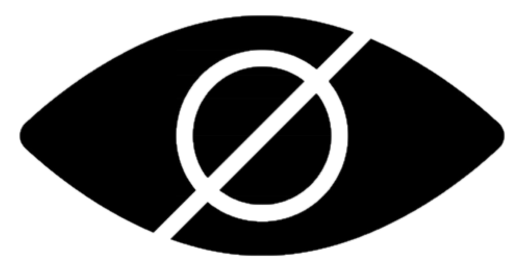
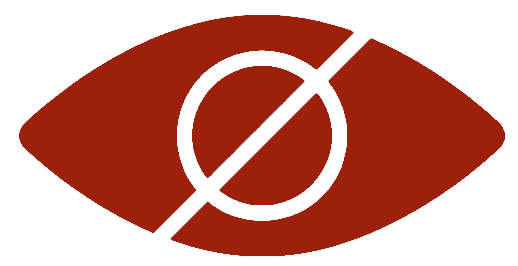
stylings and images added

diff --git a/resources/views/all/index.blade.php b/resources/views/all/index.blade.php
@@ -44,7 +44,7 @@
     </select>
 
 <select id='age_number' name='age_number'>
-  <option> Kies leeftijd</option>
+  <option> Leeftijd</option>
 
 @foreach ($all_ages as $age)
 
@@ -75,9 +75,9 @@ value={{$age['Age']}}>{{$age['Age']}}</option>
   @php 
   if ( is_null($gender_filtered) || 
   ($gender_filtered !=null) && (in_array($gender['Gender'], $gender_filtered))) { echo 'checked'; } 
-  @endphp   
-    
-  value= {{  $gender['Gender'] }} name= "gender[]" type="checkbox"/> 
+  @endphp  
+  
+    value= {{  $gender['Gender'] }} name= "gender[]" type="checkbox"/> 
   {{ \App\Models\Passenger::$gender_label[$gender["Gender"]] }}
 </div>
 
@@ -100,7 +100,7 @@ value={{$age['Age']}}>{{$age['Age']}}</option>
   if ( is_null($embarked_filtered) || 
   ($embarked_filtered !=null) && (in_array($bplace['Embarked'], $embarked_filtered))) { echo 'checked'; } 
   @endphp  
-   value= "{{ $bplace['Embarked'] === '' ? "Onbekend" : $bplace['Embarked'] }}" name="boarded[]" type="checkbox"/> 
+      value= "{{ $bplace['Embarked'] === '' ? "Onbekend" : $bplace['Embarked'] }}" name="boarded[]" type="checkbox"/> 
   {{ $bplace['Embarked'] === '' ? "Onbekend" : $bplace['Embarked'] }}
 </div>
 
@@ -121,8 +121,8 @@ value={{$age['Age']}}>{{$age['Age']}}</option>
   @php 
   if ( is_null($class_filtered) || 
   ($class_filtered !=null) && (in_array($class['Class'], $class_filtered))) { echo 'checked'; } 
-   @endphp 
-  value= "{{  $class['Class'] }}" name="class[]" name= {{ $class }} type="checkbox"/> {{ $class['Class'] }}
+   @endphp   
+     value= "{{  $class['Class'] }}" name="class[]" name= {{ $class }} type="checkbox"/> {{ $class['Class'] }}
 </div>
 
 @endforeach
@@ -136,12 +136,12 @@ value={{$age['Age']}}>{{$age['Age']}}</option>
 <br>
 
 <div class="flex items-stretch mb-2">
-<strong>Nationaliteit<br></strong><img id="show_hide" class="w-12 h-auto ml-2" src="../hide.png">
+<strong>Nationaliteit<br></strong><img id="show_hide" class="w-8 h-1/2 ml-2" src="../show.png">
 </div>
 
 <div id="show_hide_nat">
 
-<input id="cb_select_all" class="mb-3" checked type="checkbox"> <i>(De)selecteer alles </i>
+<input id="cb_select_all" class="mb-3 input_cb" checked type="checkbox"> <i>(De)selecteer alles </i>
 
 
 @foreach ($arr_nationalities_total as $key=>$value )
@@ -170,7 +170,7 @@ value={{$age['Age']}}>{{$age['Age']}}</option>
 <div>
 
 <script>
-  let eye = false;
+  let eye = true;
   const showHide = document.getElementById('show_hide');
   const showHideNat = document.getElementById('show_hide_nat');
 
@@ -178,9 +178,9 @@ value={{$age['Age']}}>{{$age['Age']}}</option>
       eye = !eye; 
       if (eye) {
         showHide.setAttribute('src', '../show.png');
-        showHideNat.style.display = 'none';
+        showHideNat.style.display = 'none'; 
       }
-      else {
+      else {        
         showHide.setAttribute('src', '../hide.png');
         showHideNat.style.display = 'block';
 
@@ -218,9 +218,9 @@ value={{$age['Age']}}>{{$age['Age']}}</option>
   @php 
   if (is_null($survived_filtered) || 
   ($survived_filtered !=null) && (in_array($status['Survived'], $survived_filtered))) { echo 'checked'; } 
-  @endphp   
+  @endphp  
 
-  value= {{ $status['Survived'] }} name="survvict[]" type="checkbox"/> 
+    value= {{ $status['Survived'] }} name="survvict[]" type="checkbox"/> 
   {{ \App\Models\Passenger::$status_label[$status['Survived']] }} 
    
 </div>
@@ -249,22 +249,25 @@ value={{$age['Age']}}>{{$age['Age']}}</option>
 <form method="GET" action = "{{ route('all.index') }}">
 @csrf
 
-<input class="input" type="text" name="name" placeholder="Voer naam in"
+<input class="input border border-[#9c200a]" type="text" name="name" placeholder="Voer naam in"
 value=" {{ request('name') }}" class="input h-10">
 
 <button id='btn-filter' type="submit" class='mt-2'>Zoek</button> 
 </form>
 </div>
-
 </div>
 
 <div class="main-container-right">
 
 <div class="flex items-baseline buttonbar">
 
-<div class="flex bar-top"> Aantal (obv filtering): {{ $passengers->count() }}
+<div class="flex bar-top font-bold"> Aantal (obv filtering): {{ $passengers->count() }}
 
 <div class="flex space-x-4">
+
+<div class="flex shrink-0 ml-8 items-center">
+          <img class="h-8 ml-4 w-auto" src="https://www.encyclopedia-titanica.org/images/svg/flag.svg" alt="Your Company">
+        </div>
 
 <a href="/all" {{ request()->path() === 'all' ? 'style=text-decoration-line:underline' : null }} >Alle opvarenden </a>
 <a href="/passengers" {{ request()->path() === 'passengers' ? 'style=text-decoration-line:underline' : null }} >Passagiers  </a>

diff --git a/resources/views/CSS/app.blade.php b/resources/views/CSS/app.blade.php
@@ -3,7 +3,8 @@
 
 :root {
     --lightgreen : rgb(174, 216, 149);
-    --lightblue: rgb(171, 201, 226);
+    /*--lightblue: rgb(171, 201, 226);*/
+    --tit_red: #9c200a;
 }
 
 
@@ -12,18 +13,23 @@ body {
     
 }
 
+.bar-top {
+    flex: 100%;
+    height: 40px;
+    padding-left: 1%;
+}
+
 .buttonbar {
     align-items: baseline;
     width: 80%;
     top: 10px;
-    background-color: purple;
+    background-color: whitesmoke;
     position: fixed;
     font-family: Arial, Helvetica, sans-serif;
 }
 
 .buttonbar a {
-margin: 0 20px;
-color: white;
+color: #9c200a;
 text-decoration: none;
 }
 
@@ -34,7 +40,7 @@ text-decoration: none;
 .container-left {
     flex: 20%;
     max-width: 230px;
-    background-color: var(--lightblue);
+    background-color: whitesmoke;
     padding-left: 10px;       
     height: 1000vh;    
 }
@@ -45,24 +51,21 @@ text-decoration: none;
 
 #age_value, 
 #age_number {
-    background-color: var(--lightblue);
     color: brown;
     border: 1px solid brown;
-    margin: 0 2px;
+    margin: 0 4px;
+    max-width: 95px;
 }
 
+#show_hide_nat {
+display: none;
+}
 
 .main-container-right {
      flex: 80%;    
-     margin-top: 30px;
+     margin-top: 5%;
 }
 
-.bar-top {
-    flex: 100%;
-    height: 40px;
-    color: yellow;
-    padding-left: 1%;
-}
 
 .container-right {
     column-count: 5;
@@ -70,17 +73,16 @@ text-decoration: none;
       
 }
 
-.formname {
+.formname, .formchecks {
     position: fixed;
     top: 0px;
-    background-color: var(--lightblue);
+    background-color: whitesmoke;
+    color: var(--tit_red);
     width: 200px;
 }
 
 .formchecks {
-    position: fixed;
-    top: 150px;
-    background-color:  var(--lightblue);
+   top: 150px;
   
 }
 
@@ -89,7 +91,7 @@ text-decoration: none;
   height:  calc(100vh - 200px);
   overflow: auto;
   scrollbar-width: thin;
-  background-color: var(--lightblue);
+    background-color: whitesmoke;
 
 }
 
@@ -131,7 +133,7 @@ hr {
     color: var(--lightgreen);
     font-weight: bolder;
     font-size: 20px;
-    margin-top: 10%;
+    margin-top: 3%;
 }
 
 
@@ -171,7 +173,11 @@ hr {
 
 @media (max-width: 1280px) {
 .main-container-right {
-    margin-left: 20%;
+    margin-left: 30%;
+}
+
+.buttonbar {
+    width: 70%;
 }
 }
 
@@ -179,6 +185,11 @@ hr {
     .container-right {
         column-count: 4;
 }
+
+.main-container-right {
+    margin-top: 10%;
+}
+
 .formname, 
 .formchecks {
     width: 20%;
